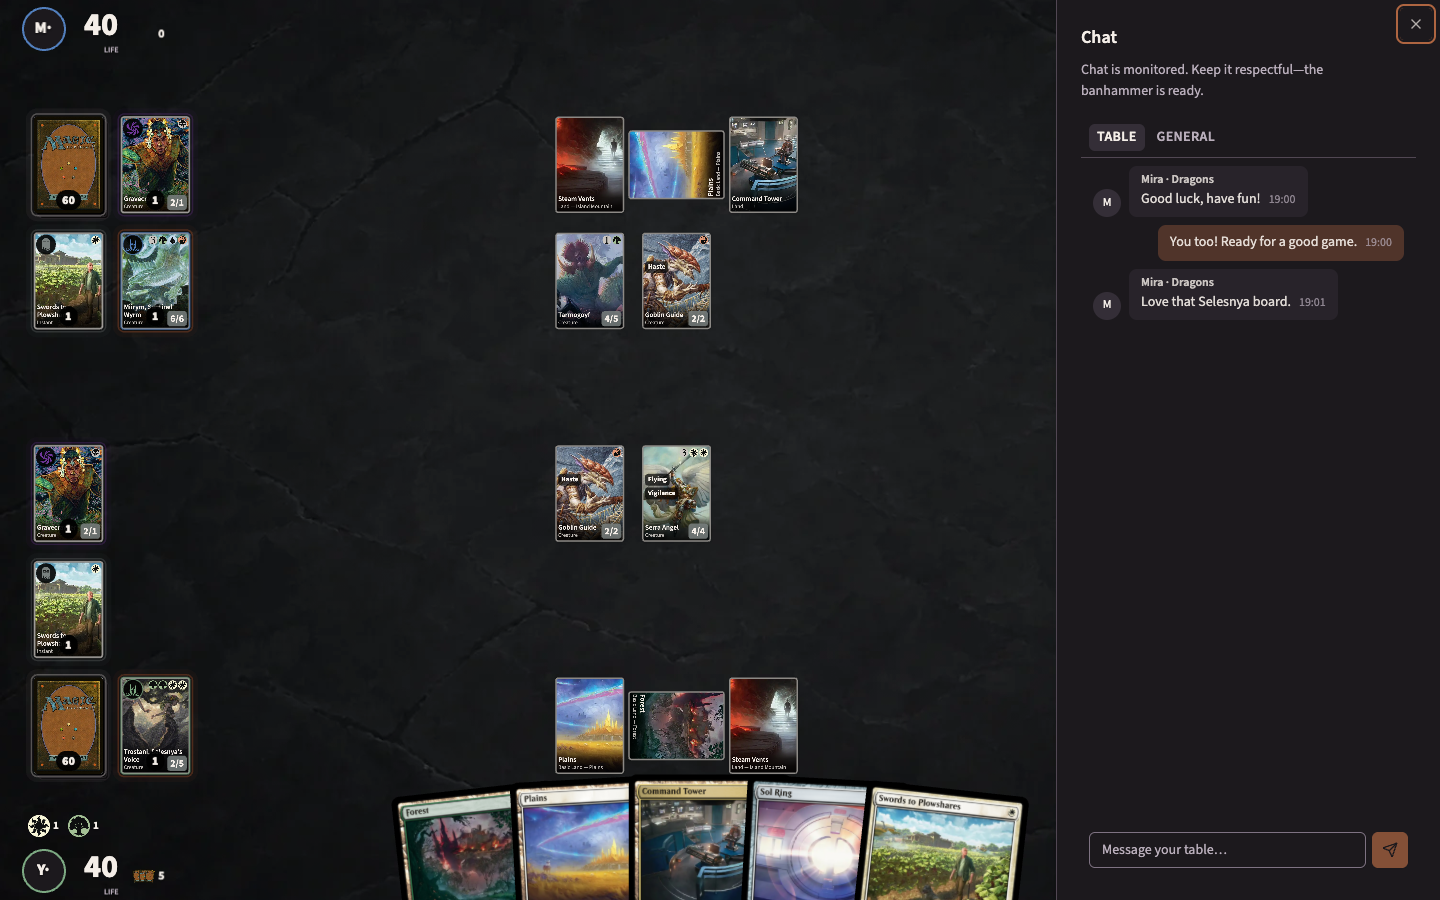
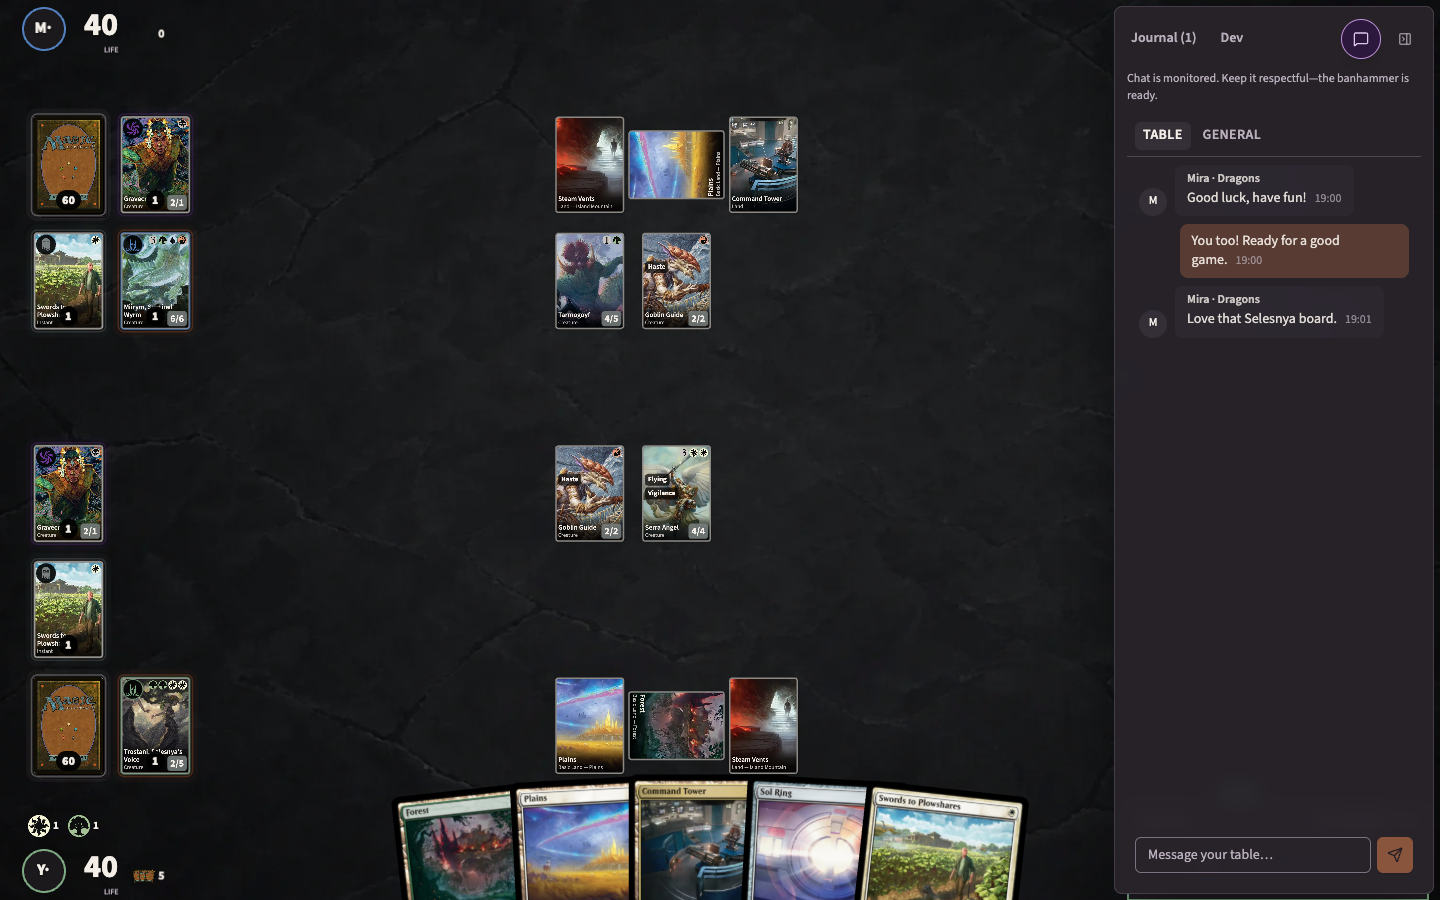
refactor(ui): reuse journal shell for in-game chat

Changed region(s): [[0.75, 0.0, 1.0, 0.3733], [0.7812, 0.9022, 1.0, 1.0], [0.75, 0.9333, 0.875, 0.9644]]

diff --git a/src/components/game/panels/GameChat.tsx b/src/components/game/panels/GameChat.tsx
@@ -1,65 +1,60 @@
-import { useState } from "react";
 import { MessageSquare } from "lucide-react";
 import { Button } from "@/components/ui/button";
-import {
-  Sheet,
-  SheetContent,
-  SheetDescription,
-  SheetHeader,
-  SheetTitle,
-  SheetTrigger,
-} from "@/components/ui/sheet";
 import { ChatPanel } from "@/components/lobby/ChatPanel";
 import { useChatStore } from "@/stores/useChatStore";
 import { useServerStore } from "@/stores/useServerStore";
-import { RELAY_FEATURE } from "@/types/server";
+
+export function GameChatButton({
+  active = false,
+  onClick,
+}: {
+  active?: boolean;
+  onClick: () => void;
+}) {
+  const unread = useChatStore((s) => s.unread.Room + s.unread.Lobby);
+
+  return (
+    <Button
+      variant={active ? "selected" : "outline"}
+      size="icon"
+      className="relative h-10 w-10 shrink-0 touch:min-h-11 touch:min-w-11 rounded-full shadow-lg backdrop-blur-sm"
+      aria-label={unread > 0 ? `Open chat, ${unread} unread messages` : "Open chat"}
+      aria-pressed={active}
+      title="Open chat"
+      onClick={onClick}
+    >
+      <MessageSquare className="h-4 w-4" />
+      {unread > 0 && (
+        <span
+          aria-hidden="true"
+          className="absolute -right-1 -top-1 min-w-5 rounded-full bg-primary px-1.5 text-ui-meta text-primary-foreground"
+        >
+          {unread > 99 ? "99+" : unread}
+        </span>
+      )}
+    </Button>
+  );
+}
 
 export function GameChat() {
-  const [open, setOpen] = useState(false);
   const currentRoom = useServerStore((s) => s.currentRoom);
   const username = useServerStore((s) => s.username);
   const connected = useServerStore((s) => s.connected);
-  const chatEnabled = useServerStore((s) => s.hasRelayFeature(RELAY_FEATURE.Chat));
-  const unread = useChatStore((s) => s.unread.Room + s.unread.Lobby);
 
-  if (!currentRoom || !chatEnabled) return null;
+  if (!currentRoom) return null;
 
   return (
-    <Sheet open={open} onOpenChange={setOpen} modal={false}>
-      <SheetTrigger asChild>
-        <Button
-          variant="outline"
-          size="icon"
-          className="relative h-10 w-10 shrink-0 touch:min-h-11 touch:min-w-11 rounded-full border-border/80 bg-card/95 shadow-lg backdrop-blur-sm"
-          aria-label={unread > 0 ? `Open chat, ${unread} unread messages` : "Open chat"}
-          title="Open chat"
-        >
-          <MessageSquare className="h-4 w-4" />
-          {unread > 0 && (
-            <span
-              aria-hidden="true"
-              className="absolute -right-1 -top-1 min-w-5 rounded-full bg-primary px-1.5 text-ui-meta text-primary-foreground"
-            >
-              {unread > 99 ? "99+" : unread}
-            </span>
-          )}
-        </Button>
-      </SheetTrigger>
-      <SheetContent side="right" className="z-[9002] flex flex-col">
-        <SheetHeader>
-          <SheetTitle>Chat</SheetTitle>
-          <SheetDescription>
-            Chat is monitored. Keep it respectful—the banhammer is ready.
-          </SheetDescription>
-        </SheetHeader>
-        <ChatPanel
-          key={currentRoom.room_id}
-          currentRoom={currentRoom}
-          currentUsername={username}
-          disabled={!connected}
-          className="min-h-0 flex-1"
-        />
-      </SheetContent>
-    </Sheet>
+    <div className="flex min-h-0 flex-1 flex-col gap-3">
+      <p className="text-ui-meta text-muted-foreground">
+        Chat is monitored. Keep it respectful—the banhammer is ready.
+      </p>
+      <ChatPanel
+        key={currentRoom.room_id}
+        currentRoom={currentRoom}
+        currentUsername={username}
+        disabled={!connected}
+        className="min-h-0 flex-1"
+      />
+    </div>
   );
 }

diff --git a/src/components/game/panels/RightActionPanel.tsx b/src/components/game/panels/RightActionPanel.tsx
@@ -7,9 +7,12 @@ import { useLayoutEffect, useRef } from "react";
 import type { RightActionPanelProps } from "../game.types";
 import { TAB_BUTTON_BASE, TAB_ACTIVE, TAB_INACTIVE } from "../game.styles";
 import { CheckpointsPanel } from "./CheckpointsPanel";
+import { GameChat, GameChatButton } from "./GameChat";
+import { useServerStore } from "@/stores/useServerStore";
+import { RELAY_FEATURE } from "@/types/server";
 import { GameDevPanel } from "@/components/dev/GameDevPanel";
 export function RightActionPanel({
-  actions,
+  showChat = false,
   collapsed,
   onToggleCollapse: rawToggle,
   resolvePlayerName,
@@ -21,9 +24,26 @@ export function RightActionPanel({
   onLeftEdgeChange,
 }: RightActionPanelProps) {
   const mobile = useIsMobileGame();
+  const chatAvailable = useServerStore(
+    (s) => !!s.currentRoom && s.hasRelayFeature(RELAY_FEATURE.Chat),
+  );
+  const chatEnabled = showChat && chatAvailable;
   const storedActiveTab = useGameUIStore((s) => s.rightPanelTab);
-  const activeTab = storedActiveTab === "dev" && !import.meta.env.DEV ? "journal" : storedActiveTab;
+  const activeTab =
+    (storedActiveTab === "dev" && !import.meta.env.DEV) ||
+    (storedActiveTab === "chat" && !chatEnabled)
+      ? "journal"
+      : storedActiveTab;
   const setActiveTab = useGameUIStore((s) => s.setRightPanelTab);
+  const chatButton = chatEnabled ? (
+    <GameChatButton
+      active={!collapsed && activeTab === "chat"}
+      onClick={() => {
+        setActiveTab("chat");
+        if (collapsed) rawToggle();
+      }}
+    />
+  ) : null;
   const panelRef = useRef<HTMLElement>(null);
   useLayoutEffect(() => {
     const panel = panelRef.current;
@@ -44,7 +64,7 @@ export function RightActionPanel({
   if (collapsed) {
     return (
       <div className="absolute right-[calc(0.75rem+var(--safe-area-inset-right))] top-[calc(0.75rem+var(--safe-area-inset-top))] z-50 flex items-center gap-2">
-        {actions}
+        {chatButton}
         {!mobile && checkpoints.length > 0 && (
           <button
             type="button"
@@ -69,6 +89,9 @@ export function RightActionPanel({
   return (
     <aside
       ref={panelRef}
+      aria-label={
+        activeTab === "chat" ? "Chat" : activeTab === "journal" ? "Journal" : "Developer tools"
+      }
       className={cn(
         "absolute right-[calc(0.375rem+var(--safe-area-inset-right))] top-[calc(0.375rem+var(--safe-area-inset-top))] bottom-[calc(0.375rem+var(--safe-area-inset-bottom))] z-[9001] rounded-lg bg-card/95 backdrop-blur-sm transition-[width,background-color,border-color] overflow-visible border border-border/70 shadow-[0_20px_60px_rgba(0,0,0,0.45)]",
         mobile
@@ -78,7 +101,7 @@ export function RightActionPanel({
             : "w-80",
       )}
     >
-      <div className="h-full p-3 flex flex-col gap-3 overflow-y-auto">
+      <div className="h-full min-h-0 p-3 flex flex-col gap-3 overflow-y-auto">
         <div className="flex shrink-0 flex-wrap items-center justify-between gap-2">
           <div className="flex flex-wrap items-center gap-x-4 gap-y-1">
             <button
@@ -97,7 +120,7 @@ export function RightActionPanel({
             ) : null}
           </div>
           <div className="flex items-center gap-2">
-            {actions}
+            {chatButton}
             <Button
               size="icon"
               variant="ghost"
@@ -119,6 +142,8 @@ export function RightActionPanel({
             resolvePlayerName={resolvePlayerName}
             resolvePlayerColor={resolvePlayerColor}
           />
+        ) : activeTab === "chat" ? (
+          <GameChat />
         ) : (
           <GameDevPanel />
         )}

diff --git a/src/views/Game.tsx b/src/views/Game.tsx
@@ -21,7 +21,6 @@ import type { ActivatableAbilityInfo } from "@/protocol/prompts/common";
 import type { ClientCardDto, ClientPlayerDto } from "@/stores/gameStore.types";
 import { GameModals } from "@/components/game/GameModals";
 import { LandscapeGate } from "@/components/LandscapeGate";
-import { GameChat } from "@/components/game/panels/GameChat";
 import { GameLoadingScreen } from "@/components/game/GameLoadingScreen";
 import { GameFailedScreen } from "@/components/game/GameFailedScreen";
 import { WaitingForPlayerScreen } from "@/components/game/WaitingForPlayerScreen";
@@ -2740,7 +2739,7 @@ export default function Game({ exitTo }: GameProps = {}) {
       {manualApi && <ManualTabletopControls gameView={gameView} api={manualApi} />}
 
       <RightActionPanel
-        actions={isMultiplayer ? <GameChat /> : undefined}
+        showChat={isMultiplayer}
         collapsed={isActionPanelCollapsed}
         onLeftEdgeChange={setRightPanelLeft}
         onToggleCollapse={toggleActionPanel}

diff --git a/src/stores/useGameUIStore.ts b/src/stores/useGameUIStore.ts
@@ -65,7 +65,7 @@ interface GameUIState {
   playModePicker: PlayModePickerState | null;
   viewingZone: ViewingZoneState | null;
   isActionPanelCollapsed: boolean;
-  rightPanelTab: "journal" | "dev";
+  rightPanelTab: "journal" | "chat" | "dev";
   promptModalHidden: boolean;
   zoneBrowserStates: Record<string, CardBrowserState>;
   mobileHandState: { promptId: Prompt["promptId"] | null; open: boolean };
@@ -82,7 +82,7 @@ interface GameUIState {
   closeZoneViewer: () => void;
   toggleActionPanel: () => void;
   setActionPanelCollapsed: (collapsed: boolean) => void;
-  setRightPanelTab: (tab: "journal" | "dev") => void;
+  setRightPanelTab: (tab: "journal" | "chat" | "dev") => void;
   toggleDevPanel: () => void;
   hidePromptModal: () => void;
   showPromptModal: () => void;

diff --git a/src/components/game/game.types.ts b/src/components/game/game.types.ts
@@ -2,7 +2,6 @@ import type { CardDto, CheckpointDto, DecisionHistoryDto, StepKind } from "@/pro
 import type { DeckCard } from "@/protocol/deck";
 import type { PromptType } from "@/protocol";
 import type { DevPromptActionOverride } from "@/stores/useGameDevStore";
-import type { ReactNode } from "react";
 
 export type PromptActionType = PromptType;
 
@@ -36,7 +35,7 @@ export const OPPONENT_SEATS: readonly Exclude<PlayerSeat, "self">[] = [
 ] as const;
 
 export interface RightActionPanelProps {
-  actions?: ReactNode;
+  showChat?: boolean;
   collapsed: boolean;
   onToggleCollapse: () => void;
   onLeftEdgeChange?: (left: number | undefined) => void;

diff --git a/src/components/game/AGENTS.md b/src/components/game/AGENTS.md
@@ -84,7 +84,7 @@ The legacy per-player canvases (`PixiGameCanvas` / `PixiGameScene` / `PixiArrows
 
 ## Modal pattern
 
-Multiplayer games expose `panels/GameChat.tsx`, a non-modal sheet around the shared lobby `ChatPanel`. Its icon-only trigger shares `RightActionPanel`'s top-right toolbar with the journal and remains available in the expanded panel header. Chat history, unread counts, notifications, and transport remain owned by `useChatStore`; the game only adds an entry point for relays advertising `RELAY_FEATURE.Chat`. Mount `ChatPanel` only while the sheet is open so hidden chat does not mark messages read or suppress notifications.
+Multiplayer games expose `panels/GameChat.tsx` inside the existing `RightActionPanel` journal shell. Its icon-only trigger shares the top-right toolbar with the journal and selects the `chat` panel view; the shared collapse control closes either view. Chat history, unread counts, notifications, and transport remain owned by `useChatStore`; the game only adds an entry point for relays advertising `RELAY_FEATURE.Chat`. Mount `ChatPanel` only while the panel is expanded with chat selected so hidden chat does not mark messages read or suppress notifications.
 
 All game modals use the `Modal` compound:
 
